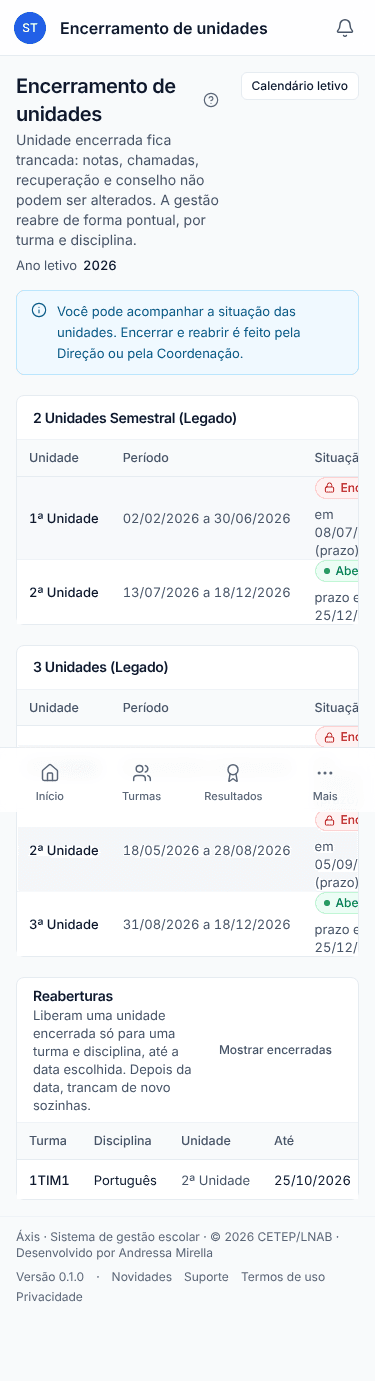
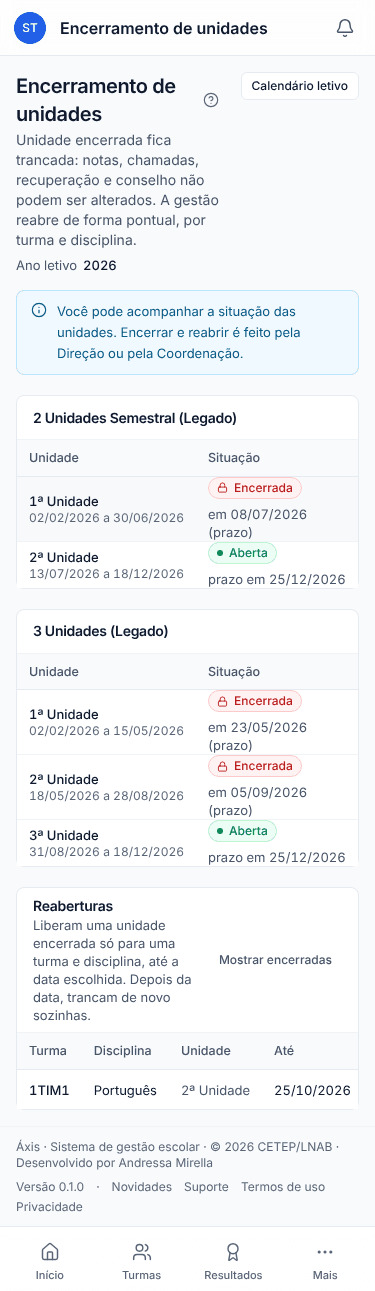
docs(cadeado): roteiro de validação, capturas finais

diff --git a/scripts/capturas-cadeado.ts b/scripts/capturas-cadeado.ts
@@ -32,7 +32,13 @@ const erros: string[] = []
 async function salvar(page: Page, nome: string, largura: number) {
   await page.waitForLoadState('networkidle').catch(() => {})
   await page.waitForTimeout(800)
+  // Viewport do tamanho da página: barras fixas aparecem no fim, não no meio (como em capturas.ts)
+  const viewport = page.viewportSize()!
+  const altura = await page.evaluate(() => document.documentElement.scrollHeight)
+  await page.setViewportSize({ width: viewport.width, height: Math.max(viewport.height, Math.min(altura, 12000)) })
+  await page.waitForTimeout(300)
   const bruto = await page.screenshot({ fullPage: true })
+  await page.setViewportSize(viewport)
   const arquivo = path.join(saida, `${nome}-${largura}.png`)
   await sharp(bruto).png({ palette: true, quality: 80, compressionLevel: 9 }).toFile(arquivo)
   console.log('  ', arquivo)

diff --git a/PROGRESSO-CADEADO.md b/PROGRESSO-CADEADO.md
@@ -9,10 +9,10 @@ Ambiente: PostgreSQL 16 local, `axis_dev` e `axis_test` com `timezone = America/
 - [x] Etapa 2 — defeito do redirecionamento
 - [ ] Etapa 3 — modelo do cadeado
 - [x] Etapa 4 — regra única no servidor e cobertura
-- [ ] Etapa 5 — telas
+- [x] Etapa 5 — telas
 - [ ] Encerramento (PR)
 
-**Próximo passo:** Etapa 5 — refazer build e capturas (`npx tsx scripts/capturas-cadeado.ts`) depois dos ajustes; depois Encerramento (roteiro de validação, PR).
+**Próximo passo:** abrir o PR para `main` e marcar STATUS: CONCLUÍDO.
 
 ## Etapa 1 — fuso
 - `logAudit` (src/lib/audit.ts) grava UTC verdadeiro (`@default(now())` do Prisma). O caminho alternativo em SQL bruto foi retirado (morto: o modelo `auditLog` sempre existe; e um `Date` do JS passado como parâmetro de SQL bruto é convertido para a hora local do banco — conferido).
@@ -63,3 +63,30 @@ Ambiente: PostgreSQL 16 local, `axis_dev` e `axis_test` com `timezone = America/
 - **[decisão]** Conselho de classe e recuperação final trancam quando a última unidade está encerrada, como pedido. Consequência prática: se o conselho acontece depois do prazo da última unidade, a gestão precisa reabrir a última unidade para a turma + disciplina (ou cadastrar o prazo depois da data do conselho).
 - **[decisão]** "Encerrar agora" não pede motivo (a tarefa não pede); fica no AuditLog com quem e quando.
 - Testes: `src/lib/cadeado-unidade.test.ts` (puro) e `src/lib/cadeado-acoes.test.ts` (integração, "hoje" = 21/10/2026): encerrada pelo prazo bloqueia (423 + mensagem); sem prazo não encerra; infrequente tranca; manual antes do prazo bloqueia (com auditoria); desfazer exige motivo e libera, e não vale depois do prazo; reabertura libera só turma + disciplina e só até a data (tranca de novo no dia seguinte); revogada volta a bloquear; escola A × B; chamada dentro da unidade encerrada bloqueia (abrir, salvar, cancelar, observação) e fora não; reabertura libera a chamada da disciplina; recuperação e conselho seguem a última unidade (reabrir a última libera só a turma + disciplina); avaliações do professor; professor sem docência e Direção continuam 403 mesmo com reabertura; professor, secretaria, AEE e Administrador recebem "Não autorizado" nas ações da gestão.
+
+## Etapa 5 — telas
+- **Encerramento de unidades** (`/dashboard/configuracoes/encerramento`, Núcleo): por esquema, cada unidade com período, situação (aberta · prazo em dd/mm / encerrada em dd/mm por X ou "(prazo)") e ação "Encerrar agora" / "Desfazer encerramento" / "Reabrir". Painel "Reaberturas" (ativas; "Mostrar encerradas" lista vencidas e revogadas) com turma, disciplina, unidade, até, motivo, quem, situação e "Revogar"; botão "Reabrir para turma e disciplina" (unidade encerrada, turma do esquema, disciplina ou "Chamada diária" em turma POR_DIA, até — padrão +7, máx. +30 —, motivo).
+  - Acesso: `unidade.encerrar` (Direção, Coordenação) age; `calendario.gerenciar` (Secretaria, Administrador) só vê, sem botões. Item novo no menu (grupo Configurações), atalho em Configurações e botão no Calendário letivo.
+  - Ao navegador vão só nomes de unidade/esquema/turma/disciplina, datas, motivo e o nome de quem fez (nada de registro de User).
+- **Lançamento de notas**: a API de leitura (`api/notas/turma/.../disciplina/...`) devolve `cadeado` por unidade; colunas de unidade encerrada com `Lock` e campos em modo leitura (mesmo visual do "somente leitura"), aviso "1ª Unidade encerrada em …" e, com reabertura, "Reaberta para você até …".
+- **Chamada**: dia de unidade encerrada abre só para leitura (aula existente) ou mostra o aviso com cadeado (sem aula); sem salvar, "aula não dada" nem replicar. **Diário**: dias encerrados sem "Editar", com cadeado (também nos dias pendentes).
+- **Recuperação final e conselho**: aviso com cadeado por disciplina e campos/decisões desabilitados; o conselho não envia decisões de disciplina trancada.
+- **Painel da gestão**: seção "Encerramento de unidades" junto do Calendário — unidades que encerram sozinhas nos próximos 7 dias e reaberturas ativas (`avisosDoCadeado` em `painel-leitura.ts`, testado).
+- Ajuda "?" (`ajuda.ts`: tela nova + passos em notas, chamada, diário, recuperação e conselho) e Novidades 0.1.0 ("Cadeado de unidade encerrada").
+- Capturas (build de produção, 1440 e 375px, sem `pageerror`): `docs/capturas/cadeado/` — painel-gestao, encerramento-direcao, encerramento-reabrir, encerramento-coordenacao, encerramento-secretaria-leitura, notas-encerradas, notas-reaberta, chamada-dia-encerrado, diario-encerrado, recuperacao-encerrada, conselho-encerrado.
+
+## Para validar localmente
+1. `npm ci`; PostgreSQL com `axis_dev` e `axis_test` em `ALTER DATABASE … SET timezone TO 'America/Sao_Paulo'`; `.env`/`.env.test` locais; `npx prisma migrate deploy` nos dois.
+2. No axis_dev: `npm run db:seed`, `npx tsx prisma/onboard-escola-teste.ts`, `npx tsx prisma/seed-usuarios-teste.ts`, `npx tsx prisma/seed-calendario.ts`, `npx tsx prisma/seed-frequencia.ts`, `npx tsx prisma/backfill/fase-2.ts`, `npx tsx prisma/backfill/fase-3a.ts` (grava `unidade.encerrar` em Direção e Coordenação) e **`npx tsx prisma/seed-cadeado.ts`** (novo).
+   - **Como forçar unidade encerrada**: o seed-cadeado define `prazoLancamento = fim da etapa + 7 dias` onde não há prazo. Com o calendário do seed (3 unidades: 02/02–15/05, 18/05–28/08, 31/08–18/12) a 1ª e a 2ª Unidade ficam encerradas pelo prazo a partir de 23/05 e 05/09/2026; a 3ª segue aberta (prazo 25/12). Também cria uma reabertura de 1TIM1 · Português · 2ª Unidade por 4 dias. Para outros cenários, edite o prazo em Calendário letivo (prazo no passado = encerrada desde o dia seguinte) ou use "Encerrar agora".
+3. `npx tsc --noEmit` e `npx vitest run` (59 arquivos, 597 testes, todos passando nesta sessão).
+4. `npm run build && npm start` e:
+   - `direcao`/direcao123 ou `coordenacao`/coordenacao123: Painel (seção Encerramento de unidades), Configurações → Encerramento de unidades (encerrar a 3ª, desfazer com motivo, reabrir para turma e disciplina, revogar); Auditoria → filtro UNIDADE.
+   - `secretaria`/secretaria123: mesma tela, só leitura. `aee`/aee123 e `professor`/professor123 não têm o item no menu (endereço direto → /dashboard).
+   - `professor`/professor123: Lançar notas → 1TIM1 → História (1ª e 2ª com cadeado) e Português (2ª reaberta); Chamada de 24/08/2026 em História (aviso de cadeado); Diário de História (dias com cadeado); Recuperação final (encerre a 3ª antes).
+   - `npx tsx scripts/capturas-cadeado.ts` refaz as capturas; `npx tsx scripts/verificar-redirecionamento.ts` confere o defeito da Etapa 2.
+
+## Resumo
+- Migrations: `20261023120000_audit_logs_utc` (correção de dados do AuditLog, +3h exceto PLATAFORMA_ESCOLA) e `20261023130000_cadeado_unidade` (só aditiva).
+- Permissão nova: `unidade.encerrar` (Direção, Coordenação; Administrador não).
+- Pontos de gravação cobertos, exceções e decisões: ver Etapa 4. Causa do redirecionamento: ver Etapa 2.
